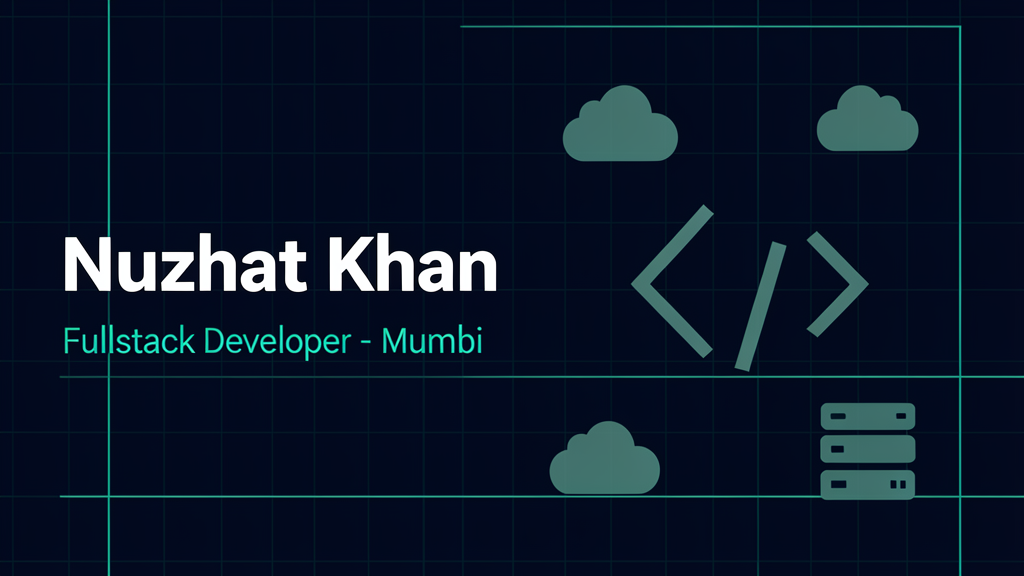
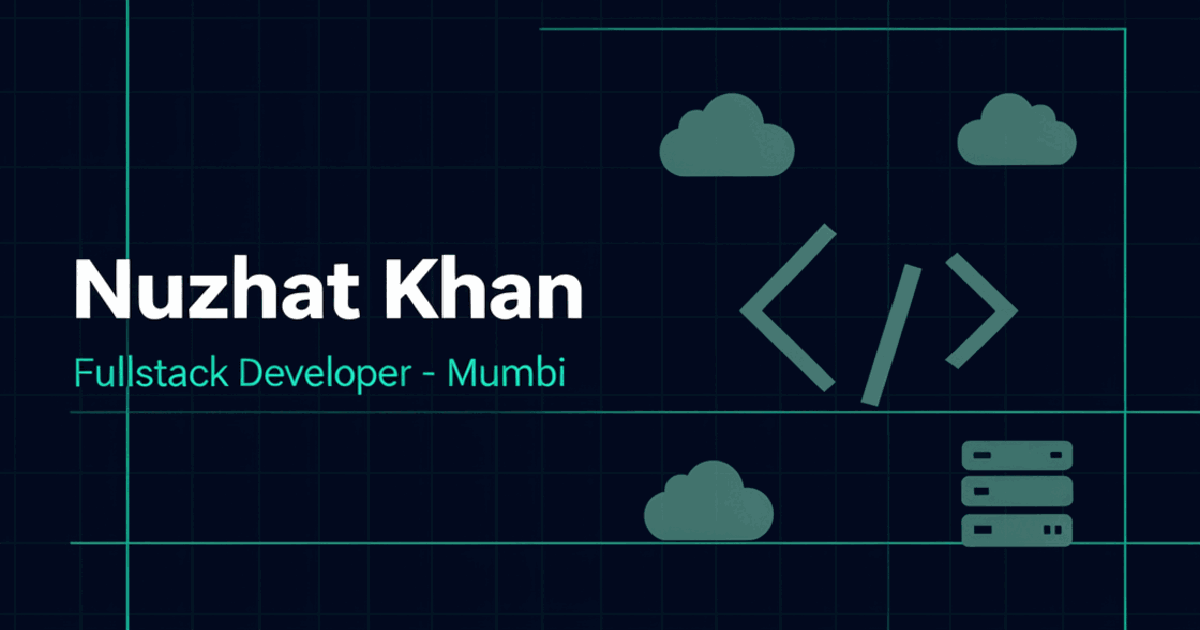
feat: optimize og-image, add meta SEO + Twitter/JSON-LD/sitemap/robots

diff --git a/app/layout.tsx b/app/layout.tsx
@@ -4,13 +4,16 @@ import CustomCursor from '@/components/CustomCursor'
 import BootLoader from '@/components/BootLoader'
 
 export const metadata: Metadata = {
-  title: 'Nuzhat Khan — Fullstack Developer',
-  description: 'Nuzhat Khan — Fullstack Developer in Mumbai. SEBI-compliant platforms, PIT/UPSI surveillance, biometric systems, and AI tooling with React, Next.js, FastAPI, and Python.',
+  title: 'Nuzhat Khan — Fullstack Developer | FastAPI, React, Next.js, Mumbai',
+  description: 'Mumbai-based fullstack developer shipping BFSI compliance platforms, sports ops tools, hospital management systems, and desktop apps with Python, FastAPI, React, Next.js, and TypeScript.',
+  alternates: { canonical: 'https://nuzhat-portfolio-alpha.vercel.app' },
   openGraph: {
-    title: 'Nuzhat Khan — Fullstack Developer',
-    description: 'Nuzhat Khan — Fullstack Developer in Mumbai. SEBI-compliant platforms, PIT/UPSI surveillance, biometric systems, and AI tooling.',
-    url: 'https://nuzhat-portfolio.vercel.app',
+    title: 'Nuzhat Khan — Fullstack Developer, Mumbai',
+    description: 'I build end-to-end platforms for compliance, operations, and payroll — the kind that ship and stay shipped.',
+    url: 'https://nuzhat-portfolio-alpha.vercel.app',
+    siteName: 'Nuzhat Khan',
     type: 'website',
+    locale: 'en_IN',
     images: [
       {
         url: '/og-image.png',
@@ -22,9 +25,48 @@ export const metadata: Metadata = {
   },
   twitter: {
     card: 'summary_large_image',
-    title: 'Nuzhat Khan — Fullstack Developer',
-    description: 'Nuzhat Khan — Fullstack Developer in Mumbai.',
+    title: 'Nuzhat Khan — Fullstack Developer, Mumbai',
+    description: 'I build end-to-end platforms for compliance, operations, and payroll — the kind that ship and stay shipped.',
     images: ['/og-image.png'],
+  },
+  robots: {
+    index: true,
+    follow: true,
+    googleBot: { index: true, follow: true },
+  },
+}
+
+const personLd = {
+  '@context': 'https://schema.org',
+  '@type': 'Person',
+  name: 'Nuzhat Khan',
+  jobTitle: 'Fullstack Developer',
+  url: 'https://nuzhat-portfolio-alpha.vercel.app',
+  sameAs: [
+    'https://github.com/Naazkn13',
+    'https://www.linkedin.com/in/nuzhat-khan-dev/',
+  ],
+  knowsAbout: [
+    'Python',
+    'FastAPI',
+    'React',
+    'Next.js',
+    'TypeScript',
+    'PostgreSQL',
+    'Docker',
+    'Azure DevOps',
+    'SEBI Compliance',
+    'RAG',
+    'Pinecone',
+    'FAISS',
+  ],
+  worksFor: {
+    '@type': 'Organization',
+    name: 'Infomatics Services',
+  },
+  alumniOf: {
+    '@type': 'EducationalOrganization',
+    name: "Bhavan's College, Mumbai University",
   },
 }
 
@@ -35,6 +77,12 @@ export default function RootLayout({
 }) {
   return (
     <html lang="en" suppressHydrationWarning>
+      <head>
+        <script
+          type="application/ld+json"
+          dangerouslySetInnerHTML={{ __html: JSON.stringify(personLd) }}
+        />
+      </head>
       <body suppressHydrationWarning>
         <BootLoader />
         <CustomCursor />

diff --git a/app/sitemap.ts b/app/sitemap.ts
@@ -1,0 +1,7 @@
+import { MetadataRoute } from 'next'
+
+export default function sitemap(): MetadataRoute.Sitemap {
+  const base = 'https://nuzhat-portfolio-alpha.vercel.app'
+  const routes = ['','about','projects','skills','contact','case-study','case-study/compulse','case-study/biometric-attendance-system','case-study/novus-comply-upsi','case-study/nsa-sports-platform','case-study/cas-parser','case-study/hospital-sop-portal'].map((r) => `${base}/${r}`)
+  return routes.map((url) => ({ url, lastModified: new Date() }))
+}
